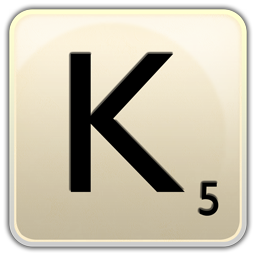
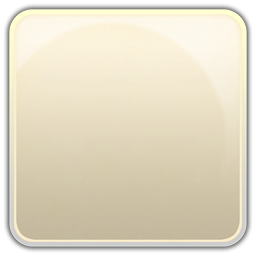
Img

Changed region(s): [[0.25, 0.1875, 0.7188, 0.75], [0.75, 0.6875, 0.875, 0.8438]]

diff --git a/Client/src/window.c b/Client/src/window.c
@@ -100,7 +100,7 @@ void loadImage()
 		
 		strcat(src, ".png");
 		
-		widget = gtk_image_new_from_file ("img/K.png"); 
+		widget = gtk_image_new_from_file (src); 
 		
 		resize_image(widget);
 		
